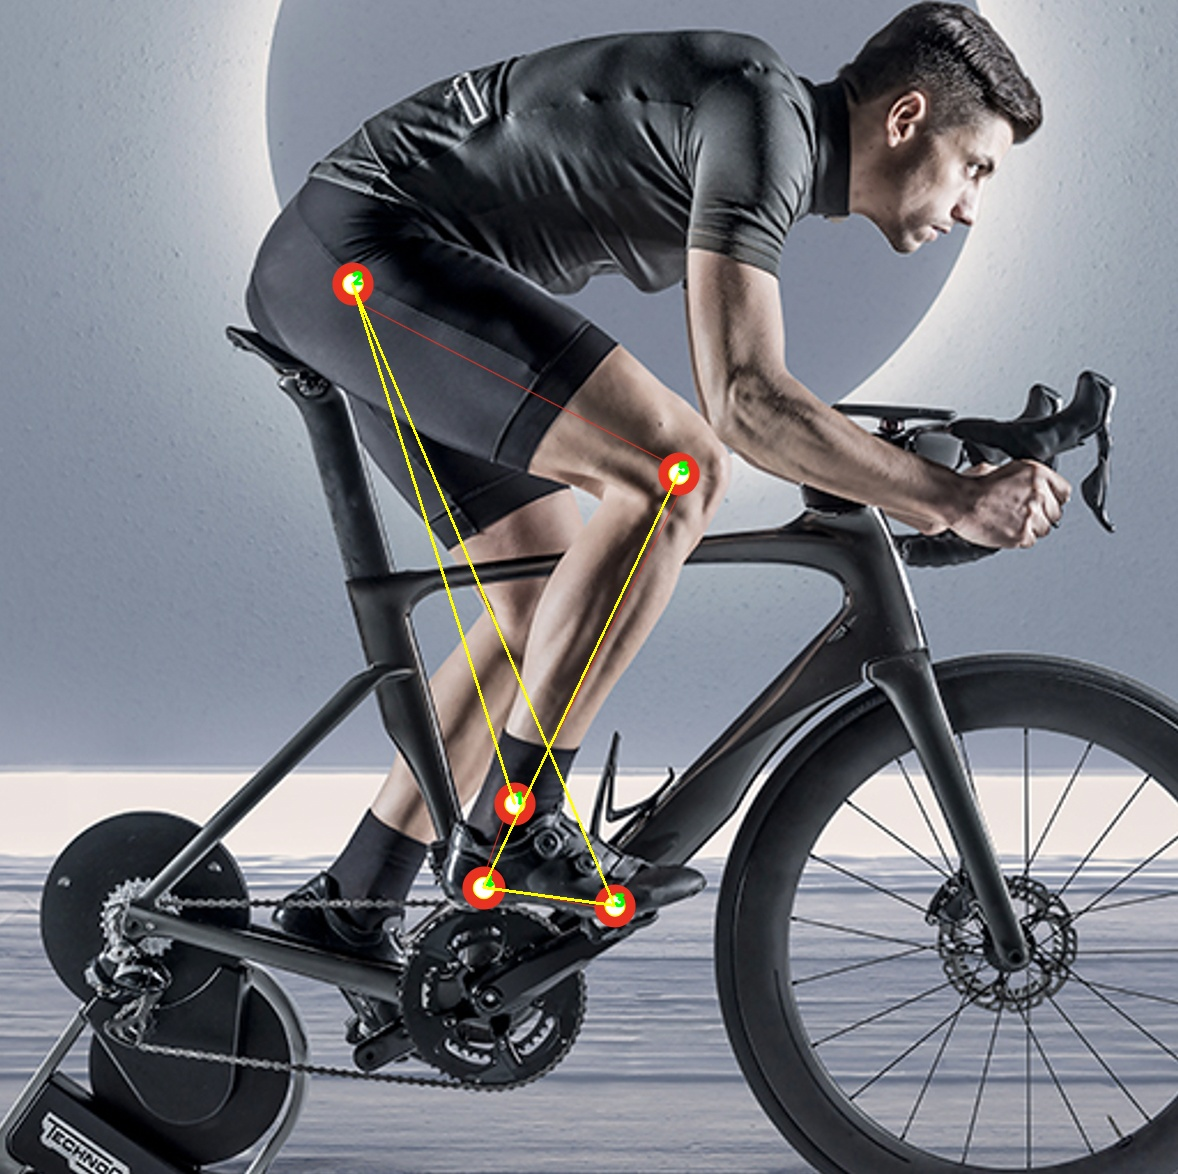
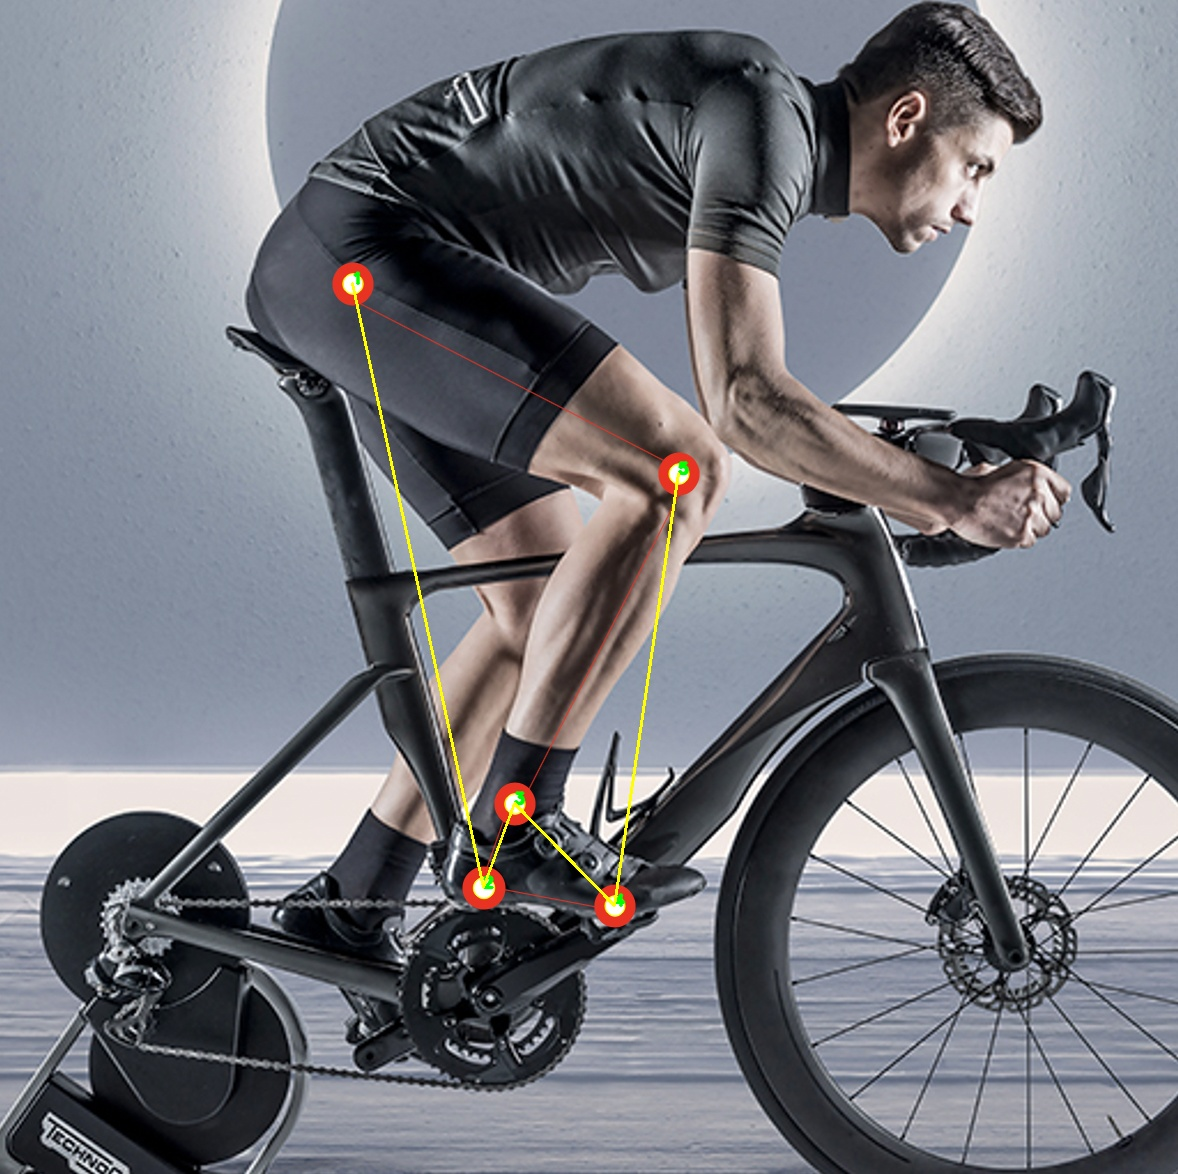
Angles in hough circles detected

Changed region(s): [[0.275, 0.2453, 0.5501, 0.7973], [0.5195, 0.3986, 0.5806, 0.5826], [0.489, 0.5213, 0.5195, 0.5826]]

diff --git a/simpleBlobTrial.py b/simpleBlobTrial.py
@@ -161,7 +161,8 @@ def SimpleBlobDetection(frame):
         keypoints_with_id.append(keypointCoordinates[i] + (keypoint_id,))
         detected_keypoints_toString.append((('X: ')+str(keypointCoordinates[i][0]))+('  Y: ')+(str(keypointCoordinates[i][1]))+' size: '+(str(keypointSizes[i]))) #Converting the x and y positions to strings
         keypoint_id += 1
-
+    keypoints_with_id = getAngleTwoPoints(keypoints_with_id)   
+    print(keypoints_with_id)
     nblobs = len(keypoints)
     # print(nblobs)
     
@@ -271,25 +272,32 @@ def houghCirclesDetection(img):
     # Blur the image to reduce noise
     img_blur = cv2.medianBlur(gray, 5)
     # Apply hough transform on the image
+    # circles = cv2.HoughCircles(img_blur, cv2.HOUGH_GRADIENT, 1, img.shape[0]/32, param1=200, param2=17, minRadius=4, maxRadius=15)
     circles = cv2.HoughCircles(img_blur, cv2.HOUGH_GRADIENT, 1, img.shape[0]/32, param1=200, param2=17, minRadius=20, maxRadius=20)
     # Draw detected circles
     blobPositions = []
     blobCoord = []
     if circles is not None:
         blobID = 1
+        print(circles)
         circles = np.uint16(np.around(circles))
+        print(circles)
         for i in circles[0, :]:
             blobPositions.append((i[0] ,i[1] , i[2],blobID))
             blobCoord.append((i[0] ,i[1]))
-            blobID = blobID + 1
             countBlobs = countBlobs + 1
             # Draw outer circle
             img = cv2.circle(img, (i[0], i[1]), i[2], (0, 255, 0), 3)
             # Draw inner circle
             img = cv2.circle(img, (i[0], i[1]), 2, (0, 0, 255), 3)
+            img = cv2.putText(img, str(blobID) ,(int(i[0]),int(i[1])),cv2.FONT_HERSHEY_SIMPLEX, 1, (255, 100, 13), 3
+            , cv2.LINE_AA)
+            blobID = blobID + 1           
+        blobPositions = getAngleTwoPoints(blobPositions)   
+        # print(blobPositions)
         img = houghCirclesConnection(img,blobCoord)
-    print('Blobs Detected ',blobPositions)
-    print(blobPositions)
+    # print('Blobs Detected ',blobPositions)
+    # print(blobPositions)
     plt.imshow(cv2.cvtColor(img, cv2.COLOR_BGR2RGB))
     plt.show()
     cv2.imwrite('OutputHoughCirlces.jpg', img)
@@ -523,9 +531,73 @@ def houghCircleDetectionVideoSorted():
         cv2.imshow("new Keypoints", frame)
         vid_writer.write(frame)
 
+def getAngleTwoPoints(data):
+    x = data[0][0]
+    y = data[0][1]
+    p = (x,y)
+    for i in range(len(data)):
+        # print(len(data))
+        if(i+1 < len(data)):
+            p1 = (data[i][0], data[i][1])
+            p2 = (data[i+1][0], data[i+1][1])
+            x1 = data[i][0]
+            y1 = data[i][1]
+            x2 = data[i+1][0]
+            y2 = data[i+1][1]
+            ydiff = y2-y1 if y2>y1 else y1-y2
+            # print(y1,y2,ydiff)
+            # print(ydiff)
+            xdiff = x2-x1 if x2>x1 else x1-x2
+            # print(x1,x2,xdiff)
+            slope = ydiff/xdiff
+            # slope = abs(y2-y1)/abs(x2-x1)
+            # slope = abs(p1[1]-p2[1])/abs(p1[0]-p2[0])
+            angle = 180.0 * np.arctan(slope) / np.pi
+            print('all ',p1,'    ',p2,'   ',slope,'   ',angle)
+            data[i] = (data[i]) + (angle,)
+        else:
+            p1 = (data[i][0], data[i][1])
+            x1 = data[i][0]
+            y1 = data[i][1]
+            # slope = abs(y1-y)/abs(x1-x)
+            ydiff = y-y1 if y>y1 else y1-y
+            # print(ydiff)
+            xdiff = x-x1 if x>x1 else x1-x
+            # print(xdiff)
+            slope = ydiff/xdiff
+            # slope = abs(p1[1]-p[1])/abs(p1[0]-p[0])
+            angle = 180.0 * np.arctan(slope) / np.pi
+            print('last'  ,p1,'    ',p,'   ',slope,'   ',angle)
+            data[i] = (data[i]) + (angle,)
 
+    return data
+def getAngle(a, b, c):
+    ang = math.degrees(math.atan2(c[1]-b[1], c[0]-b[0]) - math.atan2(a[1]-b[1], a[0]-b[0]))
+    return ang + 360 if ang < 0 else ang
+def angleCalculationVector(data):
+    # vector1 = [1,0,0]
+    # vector2 = [0,1,0]
 
+    # unit_vector1 = vector1 / np.linalg.norm(vector1)
+    # unit_vector2 = vector2 / np.linalg.norm(vector2)
 
+    # dot_product = np.dot(unit_vector1, unit_vector2)
+
+    # angle = np.arccos(dot_product) #angle in radian
+    firstPoint = np.array([data[0][0],data[0][1],1])
+    for i in range(len(data)):
+        print(len(data))
+        if(i+1 < len(data)):
+            vec1 = np.array([data[i][0], data[i][1], 1])
+            vec2 = np.array([data[i+1][0], data[i+1][1], 1])
+            r = vg.angle(vec1, vec2)
+            data[i] = data[i] + (r,)
+        else:
+            vec1 = np.array([data[i][0], data[i][1], 1])
+            r = vg.angle(vec1, firstPoint)
+            data[i] = data[i] + (r,)
+
+    return data
 def distance(co1, co2):
     co1 = tuple(map(int, co1))
     # print('wwwwwwwwwwwwwwwwwwwwwwwwwww',co1 , co2)
@@ -555,7 +627,7 @@ img = cv2.imread("./images/cyclingP.png",1)
 # img = cv2.resize(img,(656,368))
     # SimpleBlobDetection(img)
 # SimpleBlobWithCamera()
-# houghCirclesDetection(img)
-houghCircleDetectionVideoSorted()
+houghCirclesDetection(img)
+# houghCircleDetectionVideoSorted()
 # SimpleBlobDetection(img)
 cv2.waitKey(0)
